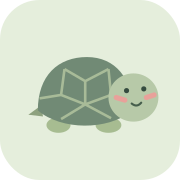
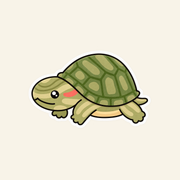
Replace turtle mascot with reference-inspired sticker artwork

Changed region(s): [[0.1389, 0.2778, 0.8889, 0.75]]

diff --git a/src/components/Turtle.tsx b/src/components/Turtle.tsx
@@ -1,50 +1,29 @@
+/** Shared reference-inspired mascot, including a lightweight celebratory blink. */
 export function Turtle({ happy = false }: { happy?: boolean }) {
   return (
     <svg
       className={happy ? "turtle happy" : "turtle"}
-      viewBox="0 0 180 130"
+      viewBox="0 0 1536 1024"
       fill="none"
       aria-label="Красноухая черепашка"
       role="img"
     >
-      <path d="M32 81 17 92l17 2" fill="#8EA27F" />
-      <ellipse cx="52" cy="104" rx="14" ry="9" fill="#A7BC91" />
-      <ellipse
-        className="flipper"
-        cx="110"
-        cy="104"
-        rx="15"
-        ry="9"
-        fill="#A7BC91"
+      <image
+        href={`${import.meta.env.BASE_URL}turtle.webp`}
+        width="1536"
+        height="1024"
       />
-      <path
-        d="M28 87c0-41 24-62 57-62s53 25 53 62c-29 24-83 23-110 0Z"
-        fill="#718A75"
-      />
-      <path
-        d="m59 39 24 14 27-14M83 53v27l-28 17M83 80l30 16M30 73l25-4 4-30M55 69l28 11M110 39l3 30 24 5M113 69 83 80"
-        stroke="#A8BB98"
-        strokeWidth="3"
-        strokeLinejoin="round"
-      />
-      <ellipse cx="139" cy="72" rx="29" ry="28" fill="#B7C9A8" />
-      <path
-        d="m119 72 10 3m25-3 9-3"
-        stroke="#E8A19A"
-        strokeWidth="6"
-        strokeLinecap="round"
-      />
-      <g className="eyes">
-        <circle cx="131" cy="64" r="3" fill="#354B3F" />
-        <circle cx="151" cy="62" r="3" fill="#354B3F" />
-      </g>
-      <path
-        d="M137 79q6 5 11-1"
-        stroke="#465E4C"
-        strokeWidth="2.5"
-        strokeLinecap="round"
-      />
-      <circle cx="157" cy="56" r="2" fill="#E5EEDC" />
+      {happy && (
+        <g className="turtle-blink" aria-hidden="true">
+          <ellipse cx="383" cy="568" rx="53" ry="52" fill="#C6C483" />
+          <path
+            d="M348 572 Q383 600 418 568"
+            stroke="#282817"
+            strokeWidth="10"
+            strokeLinecap="round"
+          />
+        </g>
+      )}
     </svg>
   );
 }

diff --git a/src/style.css b/src/style.css
@@ -967,14 +967,9 @@ legend {
 .celebration span {
   font-size: 12px;
 }
-.happy .flipper {
-  transform-box: fill-box;
-  transform-origin: center;
-  animation: wave 0.5s ease-in-out infinite alternate;
-}
-.happy .eyes {
-  animation: blink 1.3s infinite;
-  transform-origin: 140px 64px;
+.turtle-blink {
+  opacity: 0;
+  animation: turtle-blink 1.3s ease-in-out infinite;
 }
 .saving {
   position: fixed;
@@ -1006,19 +1001,15 @@ legend {
     opacity: 1;
   }
 }
-@keyframes wave {
-  to {
-    transform: rotate(-25deg) translateY(-5px);
-  }
-}
-@keyframes blink {
+@keyframes turtle-blink {
   0%,
-  80%,
+  78%,
   100% {
-    transform: scaleY(1);
+    opacity: 0;
   }
-  90% {
-    transform: scaleY(0.1);
+  85%,
+  91% {
+    opacity: 1;
   }
 }
 @media (hover: none) {
@@ -1441,5 +1432,24 @@ footer,
   .habit-more {
     min-height: 32px;
     min-width: 44px;
+  }
+}
+
+/* The sticker mascot keeps its natural pose and fits the small brand badge. */
+.brand-mark .turtle {
+  width: 100%;
+  height: 100%;
+  transform: none;
+}
+.hero-art > .turtle {
+  transform: none;
+}
+@media (max-width: 640px) {
+  .hero-art {
+    right: 0;
+  }
+  .hero-art > .turtle {
+    width: 126px;
+    left: 0;
   }
 }

diff --git a/index.html b/index.html
@@ -1,1 +1,1 @@
-<!doctype html><html lang="ru"><head><meta charset="UTF-8"/><meta name="viewport" content="width=device-width, initial-scale=1, viewport-fit=cover"/><meta name="theme-color" content="#F8F3E8"/><meta name="description" content="Уютный планнер задач и привычек. Маленькими шагами — каждый день."/><link rel="apple-touch-icon" href="./apple-touch-icon.png"/><title>Little Turtle Planner</title></head><body><div id="root"></div><script type="module" src="/src/main.tsx"></script></body></html>
+<!doctype html><html lang="ru"><head><meta charset="UTF-8"/><meta name="viewport" content="width=device-width, initial-scale=1, viewport-fit=cover"/><meta name="theme-color" content="#F8F3E8"/><meta name="description" content="Уютный планнер задач и привычек. Маленькими шагами — каждый день."/><link rel="apple-touch-icon" href="./apple-touch-icon.png"/><link rel="icon" type="image/png" href="./icon-192.png"/><title>Little Turtle Planner</title></head><body><div id="root"></div><script type="module" src="/src/main.tsx"></script></body></html>

diff --git a/vite.config.ts b/vite.config.ts
@@ -9,7 +9,7 @@ export default defineConfig({
     tailwind(),
     VitePWA({
       registerType: "prompt",
-      includeAssets: ["turtle.svg", "apple-touch-icon.png"],
+      includeAssets: ["turtle.webp", "apple-touch-icon.png"],
       manifest: {
         name: "Little Turtle Planner",
         short_name: "Черепашка",
@@ -30,7 +30,7 @@ export default defineConfig({
         ],
       },
       workbox: {
-        globPatterns: ["**/*.{js,css,html,png,svg,woff2}"],
+        globPatterns: ["**/*.{js,css,html,png,webp,svg,woff2}"],
         navigateFallback: "index.html",
       },
     }),

diff --git a/PROJECT_SPEC.md b/PROJECT_SPEC.md
@@ -8,7 +8,7 @@ React, TypeScript, Vite, Tailwind CSS, Lucide React, date-fns, IndexedDB, servic
 
 ## Дизайн
 
-Кремовый фон #F8F3E8, шалфейный #E5EEDC, оливковый #B7C9A8, коралловый #E8A19A, приглушённый зелёный #718A75. Минимализм, мягкие скругления, деликатные тени, воздух, современная типографика. Оригинальный SVG-талисман красноухой черепашки с зелёным панцирем, округлой головой, маленькими лапками, коралловыми полосками у глаз и дружелюбной мордочкой.
+Кремовый фон #F8F3E8, шалфейный #E5EEDC, оливковый #B7C9A8, коралловый #E8A19A, приглушённый зелёный #718A75. Минимализм, мягкие скругления, деликатные тени, воздух, современная типографика. Талисман красноухой черепашки по выбранному пользователем образцу: оливковый узорчатый панцирь, голова влево, коралловая полоска у глаза, дружелюбная мордочка и белая обводка наклейки. Локальный WebP на прозрачном фоне встроен в SVG-компонент с лёгкой анимацией моргания; та же иллюстрация используется в иконках PWA.
 
 ## Главный экран
 
